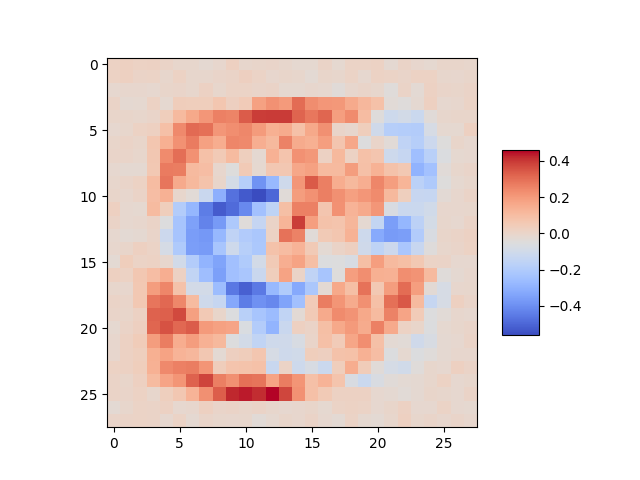
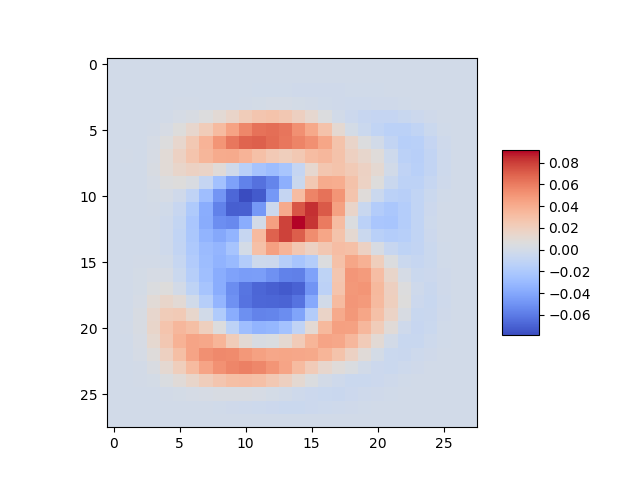
updated results for part 5

diff --git a/digits.py b/digits.py
@@ -180,8 +180,7 @@ def part4():
 
 
 def part4_rerun():
-    #TODO: rerun part 4 with vectorized gradient
-    #Load the MNIST digit data
+     #Load the MNIST digit data
     M = loadmat("mnist_all.mat")
 
     # Split data into training and test set
@@ -212,7 +211,7 @@ def part4_rerun():
 
     alpha = 0.00001
 
-    W, b, epoch, train_perf, test_perf = train_nn(compute_simple_network, gradient_simple_network_w, gradient_simple_network_b, train_set, train_label, test_set, test_label, init_W, init_b, alpha)
+    W, b, epoch, train_perf, test_perf = train_nn(compute_simple_network, gradient_simple_network_w_2, gradient_simple_network_b, train_set, train_label, test_set, test_label, init_W, init_b, alpha)
 
     plot_learning_curves_rerun("part4", epoch, train_perf, test_perf)
     plot_digit_weights_rerun(W)
@@ -295,7 +294,7 @@ def part5_rerun():
 
     alpha = 0.00001
 
-    W, b, epoch, train_perf, test_perf = train_nn_M(compute_simple_network, gradient_simple_network_w, gradient_simple_network_b, train_set, train_label, test_set, test_label, init_W, init_b, alpha)
+    W, b, epoch, train_perf, test_perf = train_nn_M2(compute_simple_network, gradient_simple_network_w_2, gradient_simple_network_b, train_set, train_label, test_set, test_label, init_W, init_b, alpha)
 
     print("plotting")
     plot_learning_curves_rerun("part5", epoch,train_perf, test_perf)
@@ -314,7 +313,7 @@ def part6():
 ################################################################################
 #part1()
 #part2()
-part3_rerun()
-# part4()
-#part5()
+#part3_rerun()
+#part4_rerun()
+part5_rerun()
 # part6()

diff --git a/mnist_handout.py b/mnist_handout.py
@@ -91,7 +91,6 @@ def gradient_simple_network_w_2(x, W, b, y):
     gradient_mat = np.matmul(x, p_minus_y.T)
     return gradient_mat
 
-#TODO: disturb only one weight
 def check_finite_differences_w(x, W, b, y, h):
     for j in range(28*28):
         for i in range(10):
@@ -158,7 +157,7 @@ def performance(x, W, b, y):
 
     return 100 * correct/float(total)
 
-def train_nn(f, df_W, df_b, x_train, y_train, x_test, y_test, init_W, init_b, alpha, max_iter = 2000):
+def train_nn(f, df_W, df_b, x_train, y_train, x_test, y_test, init_W, init_b, alpha, max_iter = 6000):
     x = x_train
     y = y_train
 
@@ -178,7 +177,7 @@ def train_nn(f, df_W, df_b, x_train, y_train, x_test, y_test, init_W, init_b, al
         W -= alpha * df_W(x, W, b, y)
         b -= alpha * df_b(x, W, b, y)
 
-        if itr % 200 == 0 or itr == max_iter - 1:
+        if itr % 50 == 0 or itr == max_iter - 1:
             epoch_i = itr
             train_perf_i = performance(x_train, W, b, y_train)
             test_perf_i = performance(x_test, W, b, y_test)
@@ -233,7 +232,7 @@ def train_nn_M(f, df_W, df_b, x_train, y_train, x_test, y_test, init_W, init_b, 
 
     return W, b, epoch, train_perf, test_perf
 
-def train_nn_M2(f, df_W, df_b, x_train, y_train, x_test, y_test, init_W, init_b, alpha, gamma = 0.9, max_iter = 2000):
+def train_nn_M2(f, df_W, df_b, x_train, y_train, x_test, y_test, init_W, init_b, alpha, gamma = 0.9, max_iter = 6000):
     '''
     uses momentum differently than train_nn_M
     '''
